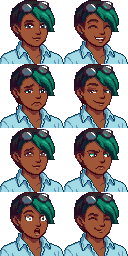
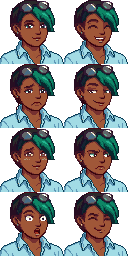
Pelican Palette 1.1.3: Sable's outfit portraits keep their faces
Building the beach, winter and wedding portraits repainted any cream left
from the old turtleneck and apron as neck skin, which also caught the eye
whites and blush (the shocked face lost part of its eyes, the bashful one
its blush); and cutting each sheet's palette swapped some iris colours.
The repaint is now kept to the rows beside the jaw, and every pixel the
outfit doesn't change keeps its everyday colour exactly.

diff --git a/tools/art/build_sable_outfits.py b/tools/art/build_sable_outfits.py
@@ -54,6 +54,7 @@ COLLAR_LINE = 45
 # The everyday portrait's turtleneck and apron colours, and Sable's neck skin.
 OLD_CLOTHES = {(0xB1, 0x39, 0x20), (0xA7, 0x37, 0x22), (0x7C, 0x18, 0x1F), (0xF2, 0xDE, 0xAA), (0xDF, 0xD6, 0xB5), (0xAD, 0x98, 0x7D)}
 JAW_LINE = 40           # expressions keep their own pixels above this row
+COLLAR_SLIVER_TOP = 36  # the old collar can show beside the jaw from this row down
 NECK = (0xA0, 0x57, 0x38)
 COLOURS = 26            # per sheet, as the everyday one
 
@@ -150,6 +151,7 @@ def build_portraits(everyday, edited_neutral, strands=False):
     neutral = everyday.crop((0, 0, 64, 64))
     mask = outfit_mask(neutral, edited_neutral, COLLAR_LINE)
     out = everyday.copy()
+    unchanged = []      # (x, y) on the sheet that the outfit left as they were
     for f in range(everyday.width // 64 * (everyday.height // 64)):
         x0, y0 = (f % 2) * 64, (f // 2) * 64
         frame = everyday.crop((x0, y0, x0 + 64, y0 + 64))
@@ -163,11 +165,23 @@ def build_portraits(everyday, edited_neutral, strands=False):
         # A tilted head shows a sliver of the old turtleneck or apron beside
         # the jaw that the neutral doesn't: that's neck now.
         pd = dressed.load()
+        # (Only beside the jaw: higher up, the same creams are the eye whites
+        # and the blush, which had been painted over as skin.)
         for x, y in own:
-            if pd[x, y][:3] in OLD_CLOTHES:
+            if y >= COLLAR_SLIVER_TOP and pd[x, y][:3] in OLD_CLOTHES:
                 pd[x, y] = NECK + (255,)
-        out.paste(without_strands(dressed) if strands else dressed, (x0, y0))
-    return quantize(recolour_black(out), 34)
+        dressed = without_strands(dressed) if strands else dressed
+        pd, pf = dressed.load(), frame.load()
+        unchanged += [(x0 + x, y0 + y) for y in range(64) for x in range(64) if pd[x, y] == pf[x, y]]
+        out.paste(dressed, (x0, y0))
+    # The palette is cut down for the new clothes, but what the outfit didn't
+    # touch (the face, eyes, hair) keeps its exact colours: cutting the whole
+    # sheet's palette had swapped the irises for the nearest leftover colour.
+    reduced = quantize(recolour_black(out), 34)
+    pr, po = reduced.load(), everyday.load()
+    for x, y in unchanged:
+        pr[x, y] = po[x, y]
+    return reduced
 
 
 def main():

diff --git a/release/nexus/README.md b/release/nexus/README.md
@@ -7,7 +7,7 @@ Everything for the Pelican Palette page on Nexus Mods (Stardew Valley).
 - `description.bbcode` is the page's Description. Paste it into the description editor's BBCode mode.
   - `{{name.png}}` marks an image. Upload each image (below) to the mod's Images tab first. Then replace each placeholder with that image's direct link: right-click the image, then "Copy image address".
   - The wiki link points at https://github.com/blinxxy-0/PelicanPalette/wiki. Run `tools/build_wiki.py` and push `docs/wiki` to the wiki repo (`PelicanPalette.wiki.git`) when it changes.
-- The release zip is `ArtStudio/bin/Release/net6.0/PelicanPalette 1.1.2.zip`. Build it with `dotnet build ArtStudio/ArtStudio.csproj -c Release -p:EnableModDeploy=false`.
+- The release zip is `ArtStudio/bin/Release/net6.0/PelicanPalette 1.1.3.zip`. Build it with `dotnet build ArtStudio/ArtStudio.csproj -c Release -p:EnableModDeploy=false`.
 - Images, all in `docs/media/`:
   - `page/`: `title_card.png` (the top of the page), `banner.png` (the same without the title) and the wooden headings (`header_*.png`), for the description.
   - `screens/`: in-game screenshots for the description and the Images tab.
@@ -18,7 +18,7 @@ Everything for the Pelican Palette page on Nexus Mods (Stardew Valley).
 - **Summary** (the short "About this mod" line):
   > Paint pixel art at an easel in a fishing-style minigame, level a Painting skill, and sell, gift, frame and varnish your work. With an art shop in Cindersap Forest and Sable, its romanceable owner.
 - **Category:** Gameplay Mechanics
-- **Version:** 1.1.2
+- **Version:** 1.1.3
 - **Tags:** Gameplay, Crafting, New Characters, Romance, Skills, Content Patcher, SMAPI
 - **Requirements:**
   - SMAPI (2400)

diff --git a/CHANGELOG.md b/CHANGELOG.md
@@ -1,5 +1,9 @@
 # Changelog
 
+## 1.1.3
+
+- **Fixed: Sable's beach, winter and wedding portraits.** Their eyes and blush now match the everyday portraits exactly (the shocked face had lost part of its eye whites, and the bashful face its blush).
+
 ## 1.1.2
 
 - **Fixed: the mod didn't load without Automate installed** (1.1.0 and 1.1.1). Automate support now lives in its own small file, loaded only when Automate is there.

diff --git a/docs/wiki/Changelog.md b/docs/wiki/Changelog.md
@@ -1,3 +1,7 @@
+## 1.1.3
+
+- **Fixed: Sable's beach, winter and wedding portraits.** Their eyes and blush now match the everyday portraits exactly (the shocked face had lost part of its eye whites, and the bashful face its blush).
+
 ## 1.1.2
 
 - **Fixed: the mod didn't load without Automate installed** (1.1.0 and 1.1.1). Automate support now lives in its own small file, loaded only when Automate is there.

diff --git a/docs/wiki/Home.md b/docs/wiki/Home.md
@@ -6,7 +6,7 @@
 - an art supply shop in Cindersap Forest,
 - Sable, the former museum restorer who runs it.
 
-This wiki covers every item, recipe, price and mechanic. It's written for version 1.1.2.
+This wiki covers every item, recipe, price and mechanic. It's written for version 1.1.3.
 
 ## Start here
 - [Getting Started](Getting-Started): your first easel, canvas and painting

diff --git a/docs/wiki/_Footer.md b/docs/wiki/_Footer.md
@@ -1,1 +1,1 @@
-Pelican Palette 1.1.2 by blinxxy. Item tables are generated from the mod's own data.
+Pelican Palette 1.1.3 by blinxxy. Item tables are generated from the mod's own data.
